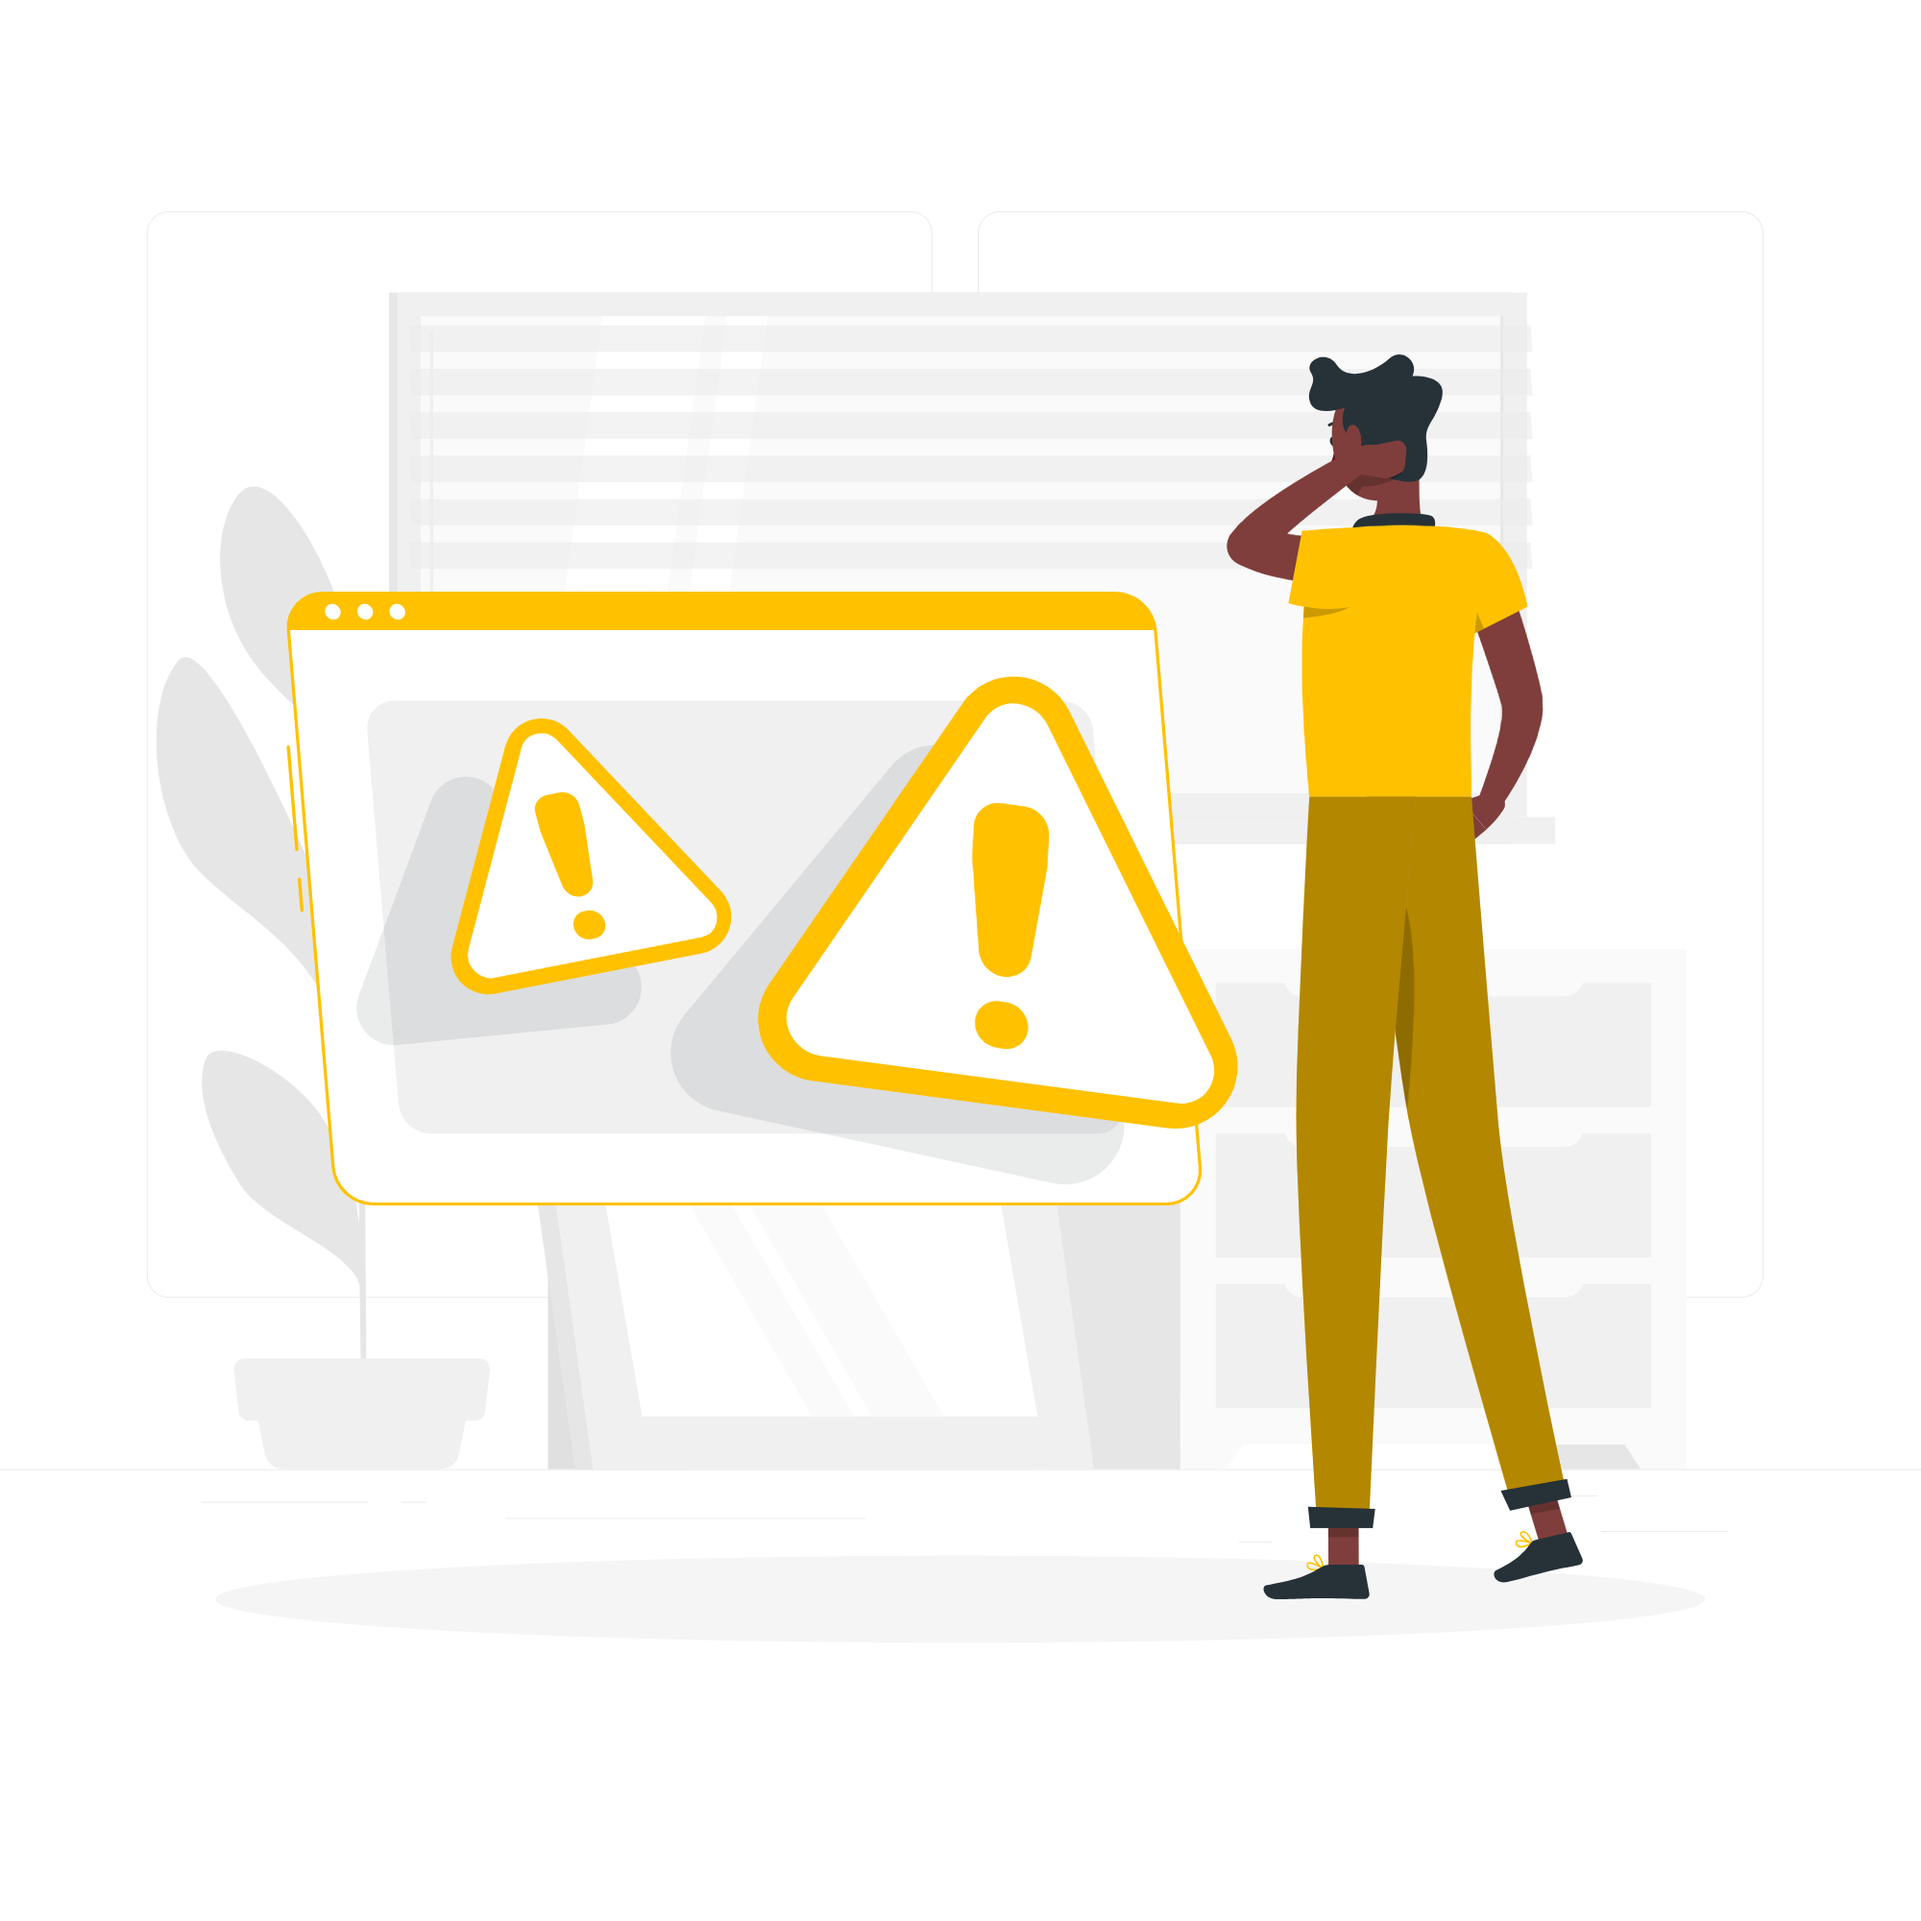
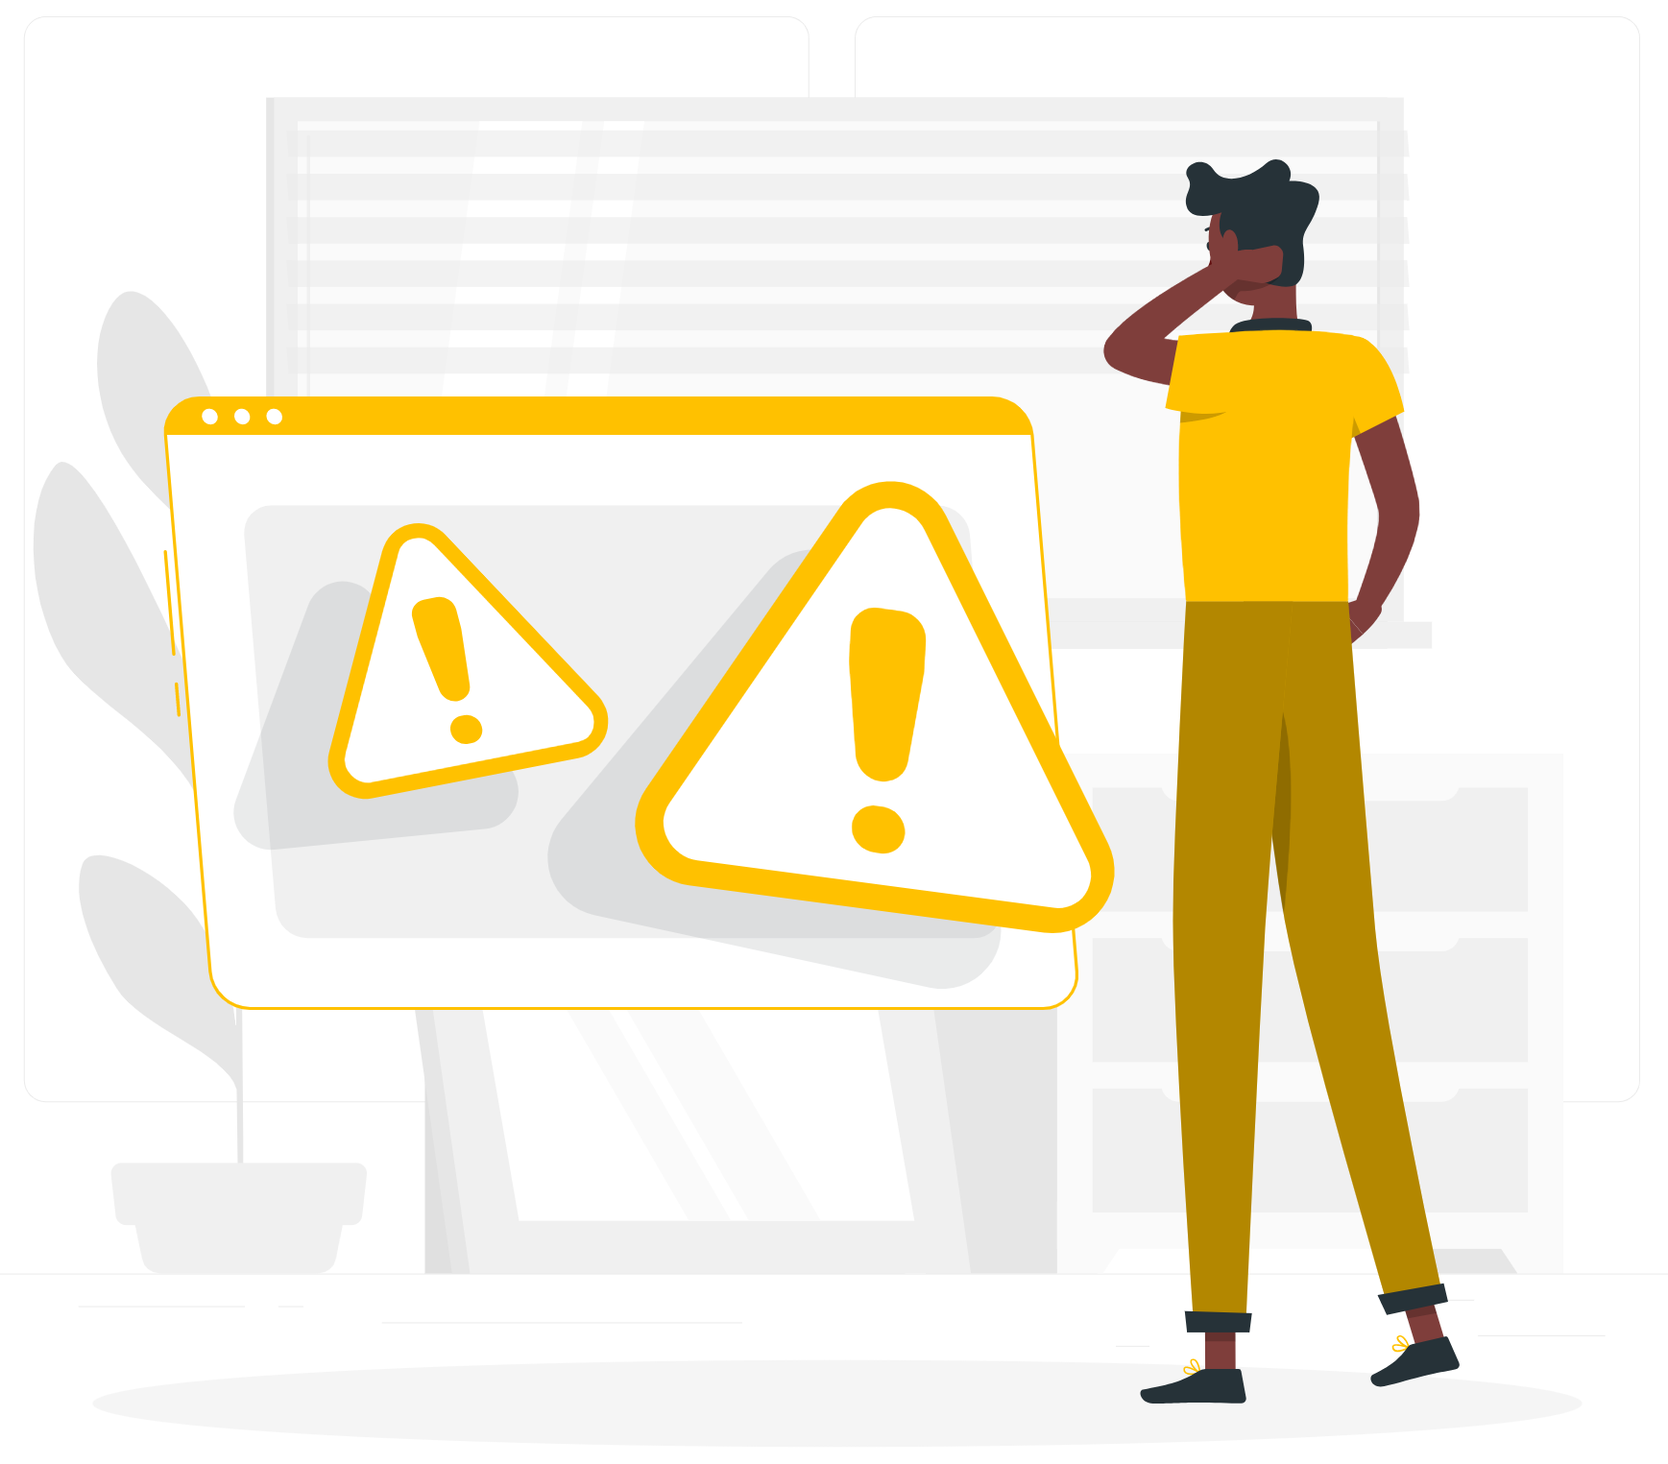
sla

Changed region(s): [[0.0, 0.0616, 0.9016, 0.9554], [0.2487, 0.6164, 0.3109, 0.8938], [0.1865, 0.678, 0.2176, 0.7089]]

diff --git a/public/index.html b/public/index.html
@@ -168,8 +168,8 @@
             infraestrutura para a nossa Dashboard, onde através de parâmetros de segurança e qualidade de serviço
             estabelecidos em conjunto com o nosso cliente, realizaremos a análise e armazenamento desses dados.</p>
         </div>
-        <div class="indexCard indexImg" style="background-image: url(assets/img/IndexImg/high-volume.png);"></div>
-        <div class="indexCard indexImg" style="background-image: url(assets/img/IndexImg/Events-cuate.png);"></div>
+        <div class="indexCard indexImg graficoImg" style="background-image: url(assets/img/IndexImg/high-volume.png);"></div>
+        <div class="indexCard indexImg calendarioImg" style="background-image: url(assets/img/IndexImg/Events-cuate.png);"></div>
         <div class="indexCard indexTexto">
           <h3>Aprender com o passado</h3>
           <i>Dentro da nossa plataforma Web desenvolvemos um registro de captura de dados.</i>
@@ -178,6 +178,7 @@
           <ul>
             <li><i class="bi bi-check-circle"></i> <span>Melhor performance de hardwares</span></li>
             <li><i class="bi bi-check-circle"></i> <span>Monitoramento e análise de dados de máquina</span></li>
+            <li><i class="bi bi-check-circle"></i> <span>Gestão de problemas e incidentes</span></li>
             <li><i class="bi bi-check-circle"></i> <span>Gestão de problemas e incidentes</span></li>
           </ul>
         </div>
@@ -192,8 +193,8 @@
 
           <div class="col-lg-7 Sobre-img3" style="background-image: url(assets/img/IndexImg/Warning-rafiki.png);"></div>
         </div>
-        <div class="indexCard indexImg" style="background-image: url(assets/img/IndexImg/Warning-rafiki.png);"></div>
-        <div class="indexCard indexImg" style="background-image: url(assets/img/IndexImg/Service\ 24_7-pana.png);"></div>
+        <div class="indexCard indexImg avisoImg" style="background-image: url(assets/img/IndexImg/Warning-rafiki.png);"></div>
+        <div class="indexCard indexImg atendimentoImg" style="background-image: url(assets/img/IndexImg/Service\ 24_7-pana.png);"></div>
         <div class="indexCard indexTexto">
           <h3>Serviço de atendimento ao Cliente</h3>
           <i>A AXIA possui uma equipe especializada para resolução de problemas e incidentes com a nossa plataforma Web.</i>

diff --git a/public/assets/css/main.css b/public/assets/css/main.css
@@ -2042,20 +2042,15 @@ section {
 .table2x3{
   display: grid;
   grid-template-columns: repeat(2, 1fr);
-  gap: 2rem;
+  gap: 1rem;
   justify-items: center;
   margin-top: 3rem;
 }
-.recursos h1:after {
-  content: "";
-  position: absolute;
-  display: block;
+.recursos h1 {
+  margin-bottom: 50px;
   width: 60px;
   height: 4px;
   background: var(--color-primary);
-  left: 0;
-  right: 0;
-  margin-left: 95px;
 }
 .recursos>p{
   text-align: start;
@@ -2063,13 +2058,69 @@ section {
 
 .indexTexto{
   padding: 40px;
-  background-color: #f5f6f7;
 }
 .indexImg{
-  width: 400px;
-  height: 400px;
   background-size: cover;
+  vertical-align: middle;
 }
+.graficoImg{
+  width: 100%;
+  height: 100%;
+}
+
+.calendarioImg{
+  width: 80%;
+  height: 100%;
+}
+.avisoImg{
+  width: 54%;
+  height: 100%;
+}
+.atendimentoImg{
+  width: 48%;
+  height: 100%;
+}
+
+@media (max-width: 1400px) {
+  .graficoImg{
+    height: 80%;
+  }
+  .calendarioImg{
+    height: 86%;
+  }
+  .avisoImg{
+    height: 85%;
+    width: 60%;
+  }
+  .atendimentoImg{
+    width: 60%;
+    height: 100%;
+  }
+}
+
+@media (max-width: 1200px) {
+  .graficoImg{
+    height: 60%;
+  }
+  .calendarioImg{
+    width: 111%;
+  }
+  .avisoImg{
+    width: 96%;
+  }
+  .atendimentoImg{
+    width: 88%;
+  }
+}
+
+@media (max-width: 992px) {
+  .table2x3{
+    grid-template-columns: repeat(1, 1fr);
+    gap: 0;
+  }
+}
+
+
 .indexTexto ul {
   list-style: none;
   padding: 0;
